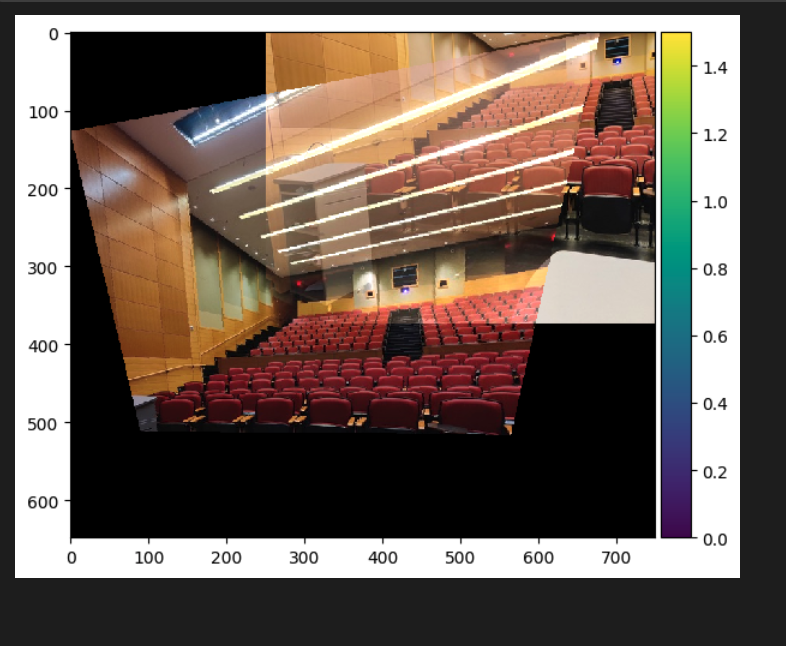
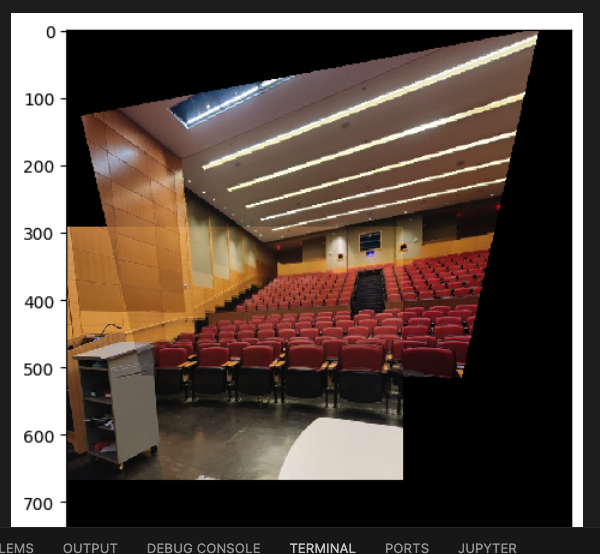
part a with actually fixed alignments

diff --git a/3/index.html b/3/index.html
@@ -153,8 +153,7 @@
                     <br>
         </div>
         <p>
-            While my homographies look good, I could not figure out how to properly align the resultant images despite my attempts.
-            But theoretically, I would first begin by applying the homographies on the corners of the image and using that along with
+            I would first begin by applying the homographies on the corners of the image and using that along with
             my original corners to determine the bounds of the canvas as well as any necessary offsets. From there, with my list of 
             corresponding points, I would calculate my Homography H and use that to warp my image. After that, I want to put my images
             on the canvas. I would do this by first creating a mask for my image. From there I can add all my images onto the canvas, and
